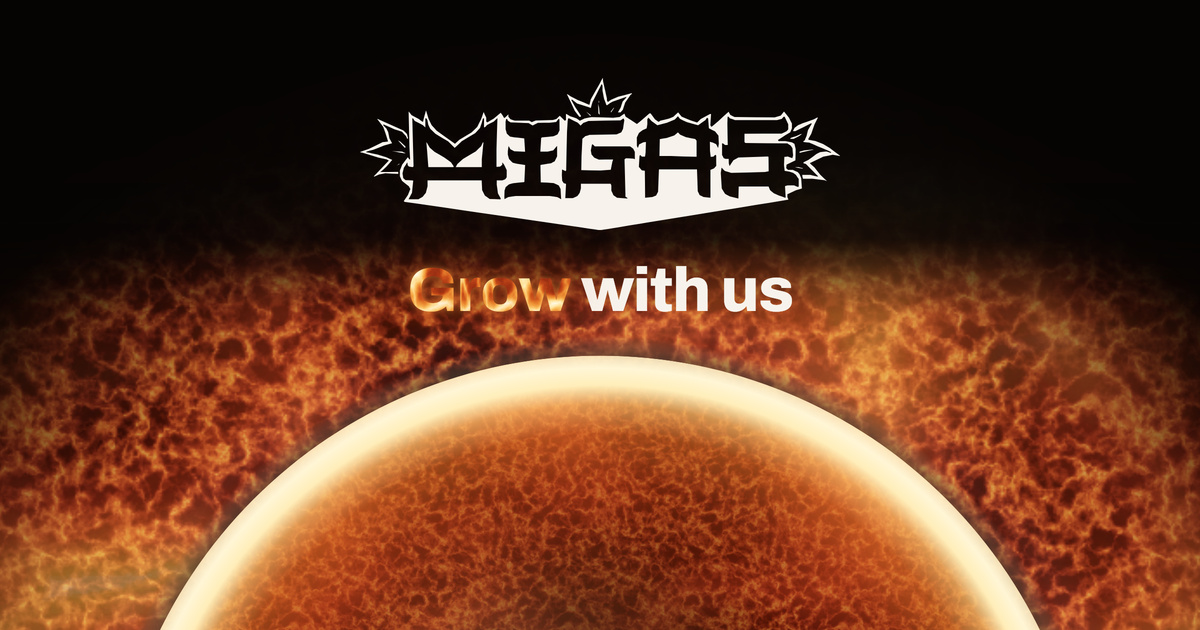
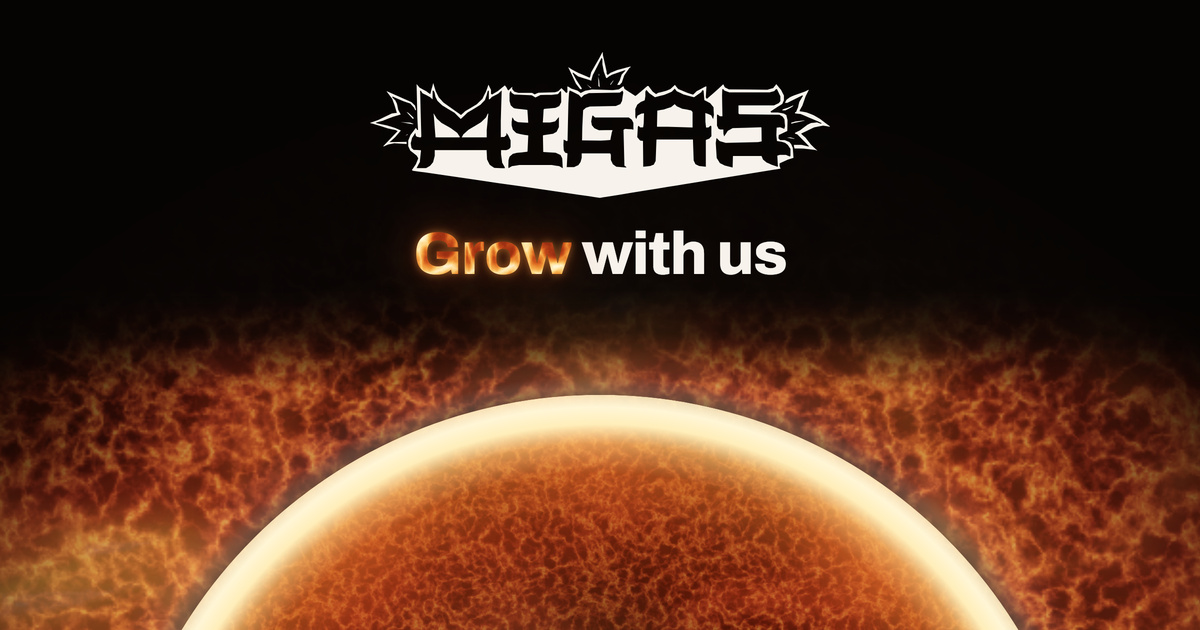
Fix two contrast failures: "Grow" on the card, and the hero note under the fire
Both were the same mistake in two places — type over the exterior fire with nothing
dark between them — and both were measurable rather than a matter of taste. Glyph
masks came from rendering each element twice, once hidden, and diffing; the sun's
animations had to be frozen in both passes or the diff picks up the whole frame.

"GROW" WAS AT 1.96:1 ON THE CARD. Under the 3:1 floor for large text, which is
exactly why he could not read it. And it was not the type, it was the ground: the
scrim ramp ended at 50% of the frame while the headline sat at 41-51%, so the word
was lit by the same exterior fire it is filled WITH. Same hue, same value, no
separation. "with us" measured 2.52:1 in the same place and only read better because
near-white differs from orange in hue as well as brightness.

I pulled that ramp back myself last pass, to stop it greying the limb. The fix was
not to choose between them: the sun drops so its apex sits at 63% instead of 56%,
the stack rises, and the scrim now holds opaque through 46% and is gone by 62%. The
headline sits on near-black and the limb is still untouched.

  Grow      1.96:1  ->   7.46:1
  with us   2.52:1  ->  15.95:1

THE HERO NOTE FADED OUT FROM UNDER HIM, and he described it precisely: hidden behind
the sun. Per line of "Every call starts with an eight-question room intake…" on a
390px viewport, against the ground immediately behind each line:

  line 1   4.85:1        line 1   5.10:1
  line 2   3.25:1   ->   line 2   5.21:1
[…]

diff --git a/app/page.tsx b/app/page.tsx
@@ -31,7 +31,12 @@ export default function Home() {
           ───────────────────────────────────────────────────────────────────── */}
       <section className="relative isolate overflow-hidden">
         <div className="wrap relative grid gap-10 pb-4 pt-14 sm:gap-14 sm:pt-20 lg:min-h-[680px] lg:grid-cols-[1.05fr_minmax(0,0.95fr)] lg:items-center lg:gap-16">
-          <div className="reveal relative">
+          {/* z-10 so the copy paints above the sun wrapper, which comes AFTER it in the DOM.
+              The scrim below needs to sit over the fire and under the text, and with
+              everything at auto z the first attempt put opaque ink straight over the
+              paragraph instead: text luminance fell to 0.006 and contrast to 1.08:1, worse
+              than the problem. Order has to be fire, then scrim, then words. */}
+          <div className="reveal relative z-10">
             <p className="eyebrow">{SITE.region} &middot; Indoor cultivators worldwide</p>
             {/* HIS WORDS, AND THE ONE WORD THAT EARNS AN ANIMATION.
                 "grow with us" is his own headline, lifted whole. What it buys that "Run the room
@@ -101,6 +106,34 @@ export default function Home() {
               ever allowed over it. */}
           <div className="reveal pointer-events-none relative mx-auto w-[86%] max-w-[380px] lg:absolute lg:-right-[5%] lg:-top-[24%] lg:-z-10 lg:mx-0 lg:w-[40vw] lg:max-w-[560px]">
             <Sun />
+            {/* THE SAME RULE AS ABOVE, ENFORCED ON A PHONE TOO. The comment on this wrapper
+                has always said no paragraph is allowed over the disc, and at lg that is kept
+                two ways: the sun is `-z-10` behind the copy and there is a fade across the
+                top of the section. Below lg neither applies. The sun sits in the flow under
+                the copy and looks safely separate — but `.sun-flame` is `inset: -34%`, so the
+                exterior fire reaches about a third of the disc's height ABOVE its own box,
+                and the sun comes after the copy in the DOM. So the fire climbed into the last
+                paragraph unguarded.
+
+                Measured on a 390px viewport, per line of "Every call starts with an
+                eight-question room intake…", text against the ground immediately behind it:
+
+                  line 1   4.85:1   ok
+                  line 2   3.25:1
+                  line 3   1.73:1
+
+                The ground goes 0.003 -> 0.031 -> 0.114 as the fire rises, which is why he
+                described the words as hidden behind the sun: the first line is fine and the
+                sentence fades out from under you. 4.5:1 is the floor for body text.
+
+                This is ink over the bleed and only the bleed. It sits above the wrapper
+                rather than inside it, opaque at the top where it meets a page that is already
+                ink — so the join is invisible — and transparent by the disc's own top edge, so
+                the brightest fire, the part right off the limb, is not touched at all. */}
+            <span
+              aria-hidden
+              className="pointer-events-none absolute inset-x-[-40%] bottom-full h-[200px] bg-[linear-gradient(to_bottom,#060403_0%,#060403_66%,rgba(6,4,3,0.6)_84%,transparent_100%)] lg:hidden"
+            />
             {/* His own device: the mark in near-black, over the fire. It appears only where the
                 disc is whole — on a wide screen the sun is cropped off the frame and there is
                 no room for a 2.4:1 lockup on a crescent.

diff --git a/app/globals.css b/app/globals.css
@@ -1270,7 +1270,7 @@ select.field {
   left: 50%;
   top: 100%;
   width: 980px;
-  transform: translate(-50%, -28%);
+  transform: translate(-50%, -24%);
 }
 /* Ink down over the exterior fire, and it MUST stop before the limb. The first version
    ran to 70% and crossed the arc, and near-black over a near-white rim does not darken it,
@@ -1281,13 +1281,21 @@ select.field {
 .og-scrim {
   position: absolute;
   inset: 0;
+  /* Opaque THROUGH the headline, then out before the limb. Measured: with the ramp
+     ending at 50% the headline sat at 41-51% of the frame, so its ground was the exterior
+     fire glowing at luminance 0.24-0.31 and "Grow" — which is filled with that same fire —
+     came out at 1.96:1 against it. Under the 3:1 floor for large text, and exactly what he
+     reported: you cannot see the word. "with us" measured 2.52:1 and only read better
+     because near-white differs from orange in hue as well as value. Neither was a type
+     problem. Both were the ground. */
   background: linear-gradient(
     to bottom,
-    rgba(6, 4, 3, 0.97) 0%,
-    rgba(6, 4, 3, 0.95) 24%,
-    rgba(6, 4, 3, 0.86) 38%,
-    rgba(6, 4, 3, 0.46) 43%,
-    transparent 50%
+    rgba(6, 4, 3, 0.98) 0%,
+    rgba(6, 4, 3, 0.97) 30%,
+    rgba(6, 4, 3, 0.95) 46%,
+    rgba(6, 4, 3, 0.72) 53%,
+    rgba(6, 4, 3, 0.3) 58%,
+    transparent 62%
   );
 }
 .og-stack {
@@ -1296,8 +1304,8 @@ select.field {
   display: flex;
   flex-direction: column;
   align-items: center;
-  padding-top: 78px;
-  gap: 30px;
+  padding-top: 52px;
+  gap: 26px;
 }
 /* THE MARK IS THE HERO, and its size was set from the thumbnail rather than from the
    1200px frame. components/brand/README.md records the measured floor: this mark resolves
@@ -1309,14 +1317,14 @@ select.field {
    link it is, and "Grow with us" does not say MI Gas. So the mark leads and the headline
    supports it. */
 .og-graffiti {
-  width: 480px;
+  width: 460px;
   color: theme("colors.bone");
 }
 .og-head {
   margin: 0;
   font-family: var(--font-display), system-ui, sans-serif;
   font-weight: 800;
-  font-size: 62px;
+  font-size: 60px;
   line-height: 1;
   letter-spacing: -0.02em;
   white-space: nowrap;
